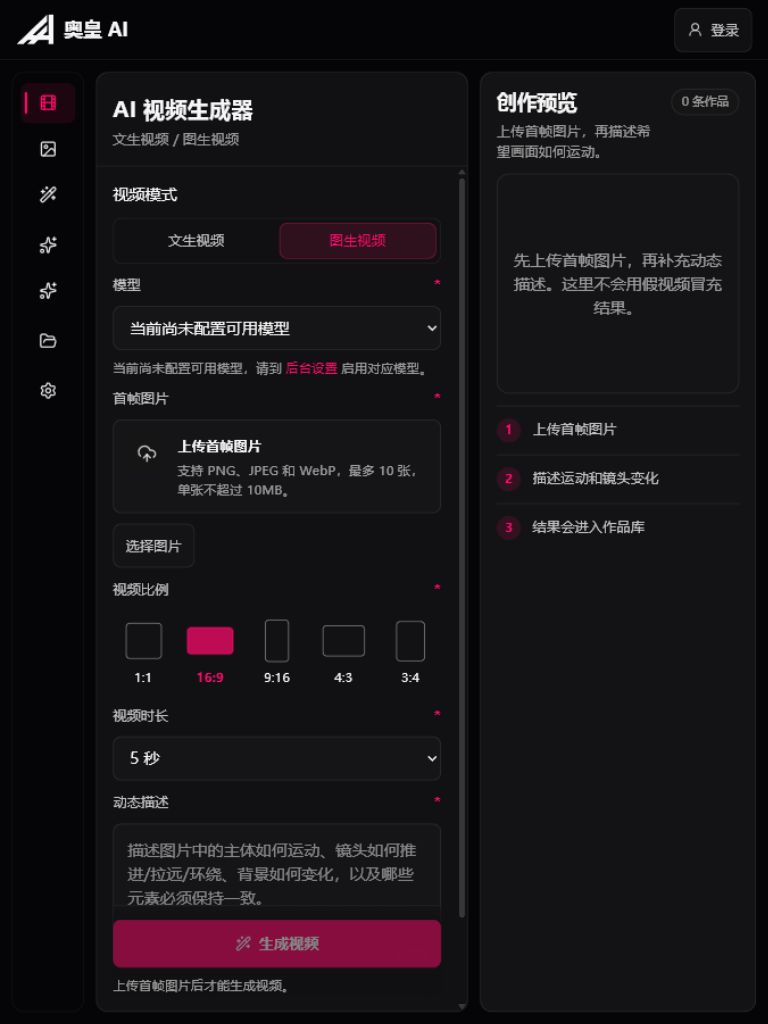
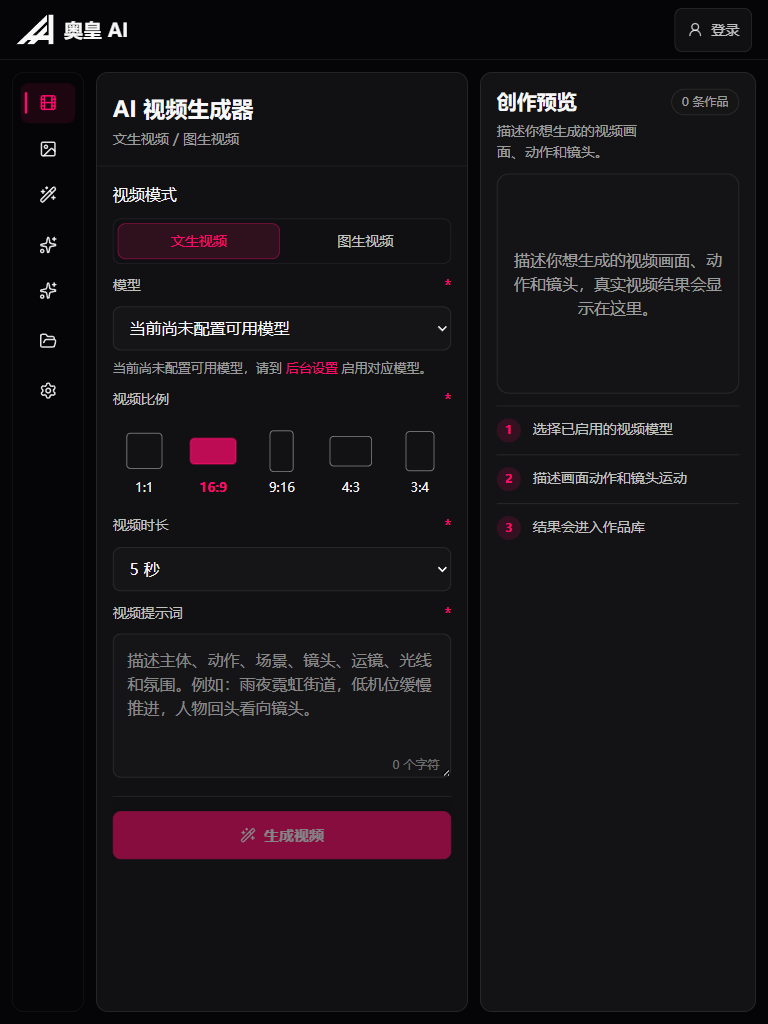
fix(video): finalize single-frame upload acceptance

diff --git a/src/components/studio-app.tsx b/src/components/studio-app.tsx
@@ -120,6 +120,7 @@ const imageWorkspaceModeMeta: Record<WorkspaceImageMode, {
 const allowedReferenceImageTypes = new Set(["image/png", "image/jpeg", "image/webp"]);
 const maxReferenceImageSize = 10 * 1024 * 1024;
 const maxReferenceImageCount = 10;
+const maxVideoFirstFrameCount = 1;
 
 const videoWorkspaceModeMeta: Record<WorkspaceVideoMode, {
   submitLabel: string;
@@ -158,7 +159,7 @@ const videoWorkspaceModeMeta: Record<WorkspaceVideoMode, {
     uploadRequired: true,
     uploadEmptyTitle: "上传首帧图片",
     uploadFilledTitle: "已选择首帧图片",
-    uploadHelpText: "支持 PNG、JPEG 和 WebP，最多 10 张，单张不超过 10MB。",
+    uploadHelpText: "仅支持 1 张 PNG、JPEG 或 WebP 图片，单张不超过 10MB。",
     promptLabel: "动态描述",
     promptPlaceholder: "描述图片中的主体如何运动、镜头如何推进/拉远/环绕、背景如何变化，以及哪些元素必须保持一致。",
     guideDescription: "上传首帧图片，再描述希望画面如何运动。",
@@ -188,10 +189,22 @@ function createImageWorkspaceFiles(files: File[]) {
 }
 
 function createVideoWorkspaceFiles(files: File[]) {
-  return createImageWorkspaceFiles(files).map((item) => ({
-    file: item.file,
-    previewUrl: item.previewUrl,
-  }));
+  if (files.length > maxVideoFirstFrameCount) {
+    throw new Error("图生视频模式只能上传 1 张首帧图片。");
+  }
+  const nextFiles = files.slice(0, maxVideoFirstFrameCount);
+  if (!nextFiles.length) return [];
+  const [file] = nextFiles;
+  if (!allowedReferenceImageTypes.has(file.type)) {
+    throw new Error("首帧图片仅支持 PNG、JPEG 和 WebP。");
+  }
+  if (file.size > maxReferenceImageSize) {
+    throw new Error("首帧图片不能超过 10MB。");
+  }
+  return [{
+    file,
+    previewUrl: URL.createObjectURL(file),
+  }];
 }
 
 async function jsonFetch<T>(url: string, options?: RequestInit): Promise<T> {
@@ -1091,13 +1104,13 @@ function VideoGenerator({
 
   useEffect(() => {
     registerMobileAction({
-      label: meta.submitLabel,
+      label: state.loading ? meta.loadingLabel : meta.submitLabel,
       loading: state.loading,
       disabled: !canSubmit,
       onClick: onSubmit,
     });
     return () => registerMobileAction(null);
-  }, [canSubmit, meta.submitLabel, onSubmit, registerMobileAction, state.loading]);
+  }, [canSubmit, meta.loadingLabel, meta.submitLabel, onSubmit, registerMobileAction, state.loading]);
 
   return (
     <FormPanel>
@@ -1199,6 +1212,7 @@ function VideoReferenceInput({
         inputRef={inputRef}
         inputId="video-first-frame-input"
         accept="image/png,image/jpeg,image/webp"
+        multiple={false}
         required={required}
         dragging={dragging}
         error={error}

diff --git a/src/lib/server/provider-call.ts b/src/lib/server/provider-call.ts
@@ -255,13 +255,22 @@ export async function submitVideo(input: {
   duration: number;
   files: UploadedMedia[];
 }) {
+  if (!input.prompt.trim()) throw new Error("请输入视频提示词。");
+  if (input.mode === "text-to-video" && input.files.length) {
+    throw new Error("文生视频模式不接收首帧图片。");
+  }
+  if (input.mode === "image-to-video") {
+    if (!input.files.length) {
+      throw new Error("图生视频模式需要上传 1 张首帧图片。");
+    }
+    if (input.files.length > 1) {
+      throw new Error("图生视频模式只能上传 1 张首帧图片。");
+    }
+  }
+
   const provider = await providerById(input.providerId);
   if (!provider || provider.kind !== "video" || !provider.enabled || !provider.apiKey) {
     throw new Error("视频供应商未配置或未启用。");
-  }
-  if (!input.prompt.trim()) throw new Error("请输入视频提示词。");
-  if (input.mode === "image-to-video" && !input.files.length) {
-    throw new Error("图生视频模式需要上传参考图片。");
   }
 
   const providerPayload: Record<string, string | number | string[]> = {
@@ -272,7 +281,8 @@ export async function submitVideo(input: {
     response_format: "url",
   };
   if (input.mode === "image-to-video") {
-    providerPayload.image = input.files.map((file) => `data:${file.mimeType};base64,${file.bytes.toString("base64")}`);
+    const [file] = input.files;
+    providerPayload.image = [`data:${file.mimeType};base64,${file.bytes.toString("base64")}`];
   }
 
   const response = await fetch(provider.apiUrl, {

diff --git a/src/app/api/generate/video/route.ts b/src/app/api/generate/video/route.ts
@@ -8,9 +8,17 @@ export async function POST(request: Request) {
   try {
     const form = await request.formData();
     const duration = Number(form.get("duration") || 5);
+    const mode = String(form.get("mode") || "text-to-video") === "image-to-video" ? "image-to-video" : "text-to-video";
+    const files = form.getAll("files").filter((value): value is File => value instanceof File && value.size > 0);
+    if (mode === "text-to-video" && files.length) {
+      throw new Error("文生视频模式不接收首帧图片。");
+    }
+    if (mode === "image-to-video" && files.length !== 1) {
+      throw new Error(files.length ? "图生视频模式只能上传 1 张首帧图片。" : "图生视频模式需要上传 1 张首帧图片。");
+    }
     const result = await submitVideo({
       providerId: String(form.get("providerId") || ""),
-      mode: String(form.get("mode") || "text-to-video") === "image-to-video" ? "image-to-video" : "text-to-video",
+      mode,
       prompt: String(form.get("prompt") || ""),
       ratio: String(form.get("ratio") || "16:9"),
       duration: Number.isFinite(duration) ? duration : 5,

diff --git a/docs/ui/MODULE_06_VIDEO_WORKSPACE.md b/docs/ui/MODULE_06_VIDEO_WORKSPACE.md
@@ -194,8 +194,10 @@ Implemented in `src/components/studio-app.tsx`:
 Implemented in `src/lib/server/provider-call.ts`:
 
 - The internal API still receives and validates `mode`.
-- Image-to-video provider payload includes base64 `image` data.
+- Image-to-video provider payload includes exactly one base64 `image` data URL.
 - Text-to-video provider payload no longer sends an empty or stale `image` field.
+- Image-to-video now rejects 0 files and rejects more than 1 file instead of silently truncating.
+- Text-to-video now rejects any submitted first-frame file before provider dispatch.
 
 ## Segment 2 Mode Behavior
 
@@ -207,8 +209,76 @@ Implemented in `src/lib/server/provider-call.ts`:
 | Prompt guidance | Describes subject, action, scene, camera, motion, lighting, and mood | Describes subject motion, camera movement, background change, and consistency requirements |
 | Preview empty state | Guides text description of a video scene | Guides first-frame upload first, then motion description |
 | Frontend payload | `providerId`, `mode=text-to-video`, `ratio`, `duration`, `prompt` | `providerId`, `mode=image-to-video`, `ratio`, `duration`, `prompt`, `files` |
-| Provider payload | `model`, `prompt`, `duration`, `aspect_ratio`, `response_format` | Same fields plus `image` data URLs |
+| Provider payload | `model`, `prompt`, `duration`, `aspect_ratio`, `response_format` | Same fields plus exactly one `image` data URL |
 | Result state | Real provider output only | Real provider output only |
+
+## Final Acceptance Patch
+
+Current branch: `feature/06-video-workspace`
+
+Patch scope:
+
+- Tightened the image-to-video first-frame contract to a single image.
+- Kept `videoWorkspace.mode` as the only mode source.
+- Kept module 5 shared components and shell visuals unchanged.
+- Kept B-side New API, authentication, quota, payment, Docker, database, Redis, BFF, and port configuration untouched.
+
+### Single First-Frame Contract
+
+| Layer | Result | Verification |
+| --- | --- | --- |
+| Frontend copy | The image-to-video upload help now says `仅支持 1 张 PNG、JPEG 或 WebP 图片，单张不超过 10MB。` and no longer says `最多 10 张`. | Production DOM check |
+| Frontend input | `#video-first-frame-input` renders as a single file input with `multiple === false`. | Production DOM check |
+| Frontend state | `createVideoWorkspaceFiles` rejects more than one file and keeps at most one accepted `VideoWorkspaceFile`. | Code review and upload test |
+| Replace | Selecting a new first frame replaces the previous thumbnail and releases the previous object URL. | CDP upload report |
+| Delete | Deleting the first frame removes the thumbnail, restores the missing-upload guidance, disables submit, and releases the object URL. | CDP upload report and screenshot |
+| API route | `/api/generate/video` rejects `image-to-video` with 0 files or more than 1 file before provider dispatch. | API request check |
+| Server provider call | `submitVideo` rejects text-to-video files, rejects image-to-video 0/>1 files, and sends a one-item `image` array only for image-to-video. | API request check and code review |
+
+API request checks against production preview at `http://127.0.0.1:3105/`:
+
+| Request | Result |
+| --- | --- |
+| `image-to-video` with 0 files | `400`, `图生视频模式需要上传 1 张首帧图片。` |
+| `image-to-video` with 2 files | `400`, `图生视频模式只能上传 1 张首帧图片。` |
+| `text-to-video` with 1 file | `400`, `文生视频模式不接收首帧图片。` |
+| `text-to-video` with 0 files | Reached real provider validation and returned `视频供应商未配置或未启用。` in the current no-model environment. |
+
+### Upload, Replace, Delete Evidence
+
+Temporary local test images were used only for browser acceptance and were not committed.
+
+Evidence was captured through a clean production preview plus a temporary Chrome DevTools Protocol session so the real browser file input received local PNG files. No fake generated video result was used.
+
+CDP upload report summary:
+
+| Step | Result |
+| --- | --- |
+| Initial image-to-video state | `multiple: false`, single-frame copy present, old `最多 10 张` copy absent, submit disabled. |
+| Upload | One local PNG was selected through the real file input. The UI showed the thumbnail, filename, replacement action, and delete action. |
+| Replace | A second local PNG replaced the first. The first blob URL was revoked. |
+| Delete | Thumbnail count returned to 0, missing-upload guidance returned, submit stayed disabled, and all created blob URLs were revoked. |
+| Text-to-video regression | No first-frame upload input is present and the text-generation guidance remains visible. |
+| Mobile uploaded state | 390x844 screenshot shows the image-to-video thumbnail state without a Next.js development marker. |
+
+### Final Patch Screenshots
+
+Directory:
+
+```text
+docs/design-references/module-06-video-workspace/
+```
+
+New or refreshed evidence:
+
+- `1440x900-image-to-video-uploaded-first-frame.png`
+- `1440x900-image-to-video-after-delete.png`
+- `768x1024-text-to-video.png`
+- `390x844-image-to-video-uploaded.png`
+
+Requested but not regenerated as a fake state:
+
+- `390x844-video-loading-action.png` remains unverified because the current environment has no enabled real video model, so the app cannot enter a real video generation loading state without inventing a provider or fake result.
 
 ## Current Backend Capability Limitation
 
@@ -298,7 +368,8 @@ Files:
 
 - `1440x900-text-to-video-initial.png`
 - `1440x900-image-to-video-missing-first-frame.png`
-- `1440x900-image-to-video-upload-not-automated.png`
+- `1440x900-image-to-video-uploaded-first-frame.png`
+- `1440x900-image-to-video-after-delete.png`
 - `1440x900-no-video-model-state.png`
 - `1440x900-real-unavailable-error-state.png`
 - `1280x800-text-to-video.png`
@@ -307,6 +378,7 @@ Files:
 - `768x1024-text-to-video.png`
 - `390x844-mobile-text-to-video-params.png`
 - `390x844-mobile-image-to-video-upload.png`
+- `390x844-image-to-video-uploaded.png`
 - `390x844-mobile-preview.png`
 - `390x844-mobile-bottom-action.png`
 
@@ -322,5 +394,5 @@ Final checks to run before the segment 3 commit:
 ### Not Verified In Segment 3
 
 - Real successful video generation, playback, download, and library completion were not verified because the current environment has no enabled real video model.
-- Upload-after-selection thumbnail, replace, and delete were not fully automated because the in-app browser runtime does not expose file-selection or `setInputFiles`. The code path uses the shared `CompactDropzone`, object URL creation, replacement, removal, and cleanup implemented in segment 2.
+- A real video generation loading state was not verified because the current environment has no enabled real video model. The mobile action label code now uses `state.loading ? meta.loadingLabel : meta.submitLabel`.
 - Provider capability filtering could not be verified because the current provider API exposes no capability fields for text-to-video, image-to-video, ratios, durations, or optional reference-image support.

diff --git a/docs/ui/IMPLEMENTATION_BOARD.md b/docs/ui/IMPLEMENTATION_BOARD.md
@@ -46,5 +46,6 @@
 | Module 6 segment 1 | Done | Video workspace audit, mode-difference matrix, and implementation plan completed and pushed. |
 | Module 6 segment 2 | Done | Text-to-video and image-to-video now differ in parameters, validation, payload behavior, preview state, and mobile/desktop submit state. |
 | Module 6 segment 3 | Done | Production browser acceptance, screenshot evidence, docs, checks, push, and Draft PR completed. |
-| Module 6 | Done, awaiting human review | Do not merge or proceed to module 7 until manual review approves the module. |
-| Module 7 | Blocked | Do not start until module 6 is manually approved. |
+| 模块 6 最终补修 | 已完成 | 图生视频单首帧契约、API 校验、真实上传/替换/删除验收、移动端 loading 文案代码修正、Unicode 扫描和证据修正完成。 |
+| 模块 6 | 已完成，等待人工检查 | Do not merge or proceed to module 7 until manual review approves the module. |
+| 模块 7 | 阻塞 | Do not start until module 6 is manually approved. |

diff --git a/docs/ui/REVIEW_GATES.md b/docs/ui/REVIEW_GATES.md
@@ -79,3 +79,5 @@
 - Module 6 must reuse the module 5 visual foundation and must not redesign Header, Sidebar, ratio controls, upload controls, primary action, preview shell, or scrollbar behavior.
 - A-side module 6 must not modify B-side New API, authentication, quota, payment, Docker, database, Redis, BFF, callback, reconciliation, or port configuration.
 - If the current provider API exposes no capability fields, A-side code must record the limitation and must not hard-code guessed vendor capability maps.
+- Image-to-video accepts exactly one first-frame image. Zero files and more than one file must be rejected by both the UI contract and API validation; screenshots must not label an unuploaded state as uploaded.
+- Module 6 upload evidence must verify real upload, replace, delete, and object URL cleanup, or explicitly record the automation limitation instead of using a fake uploaded state.